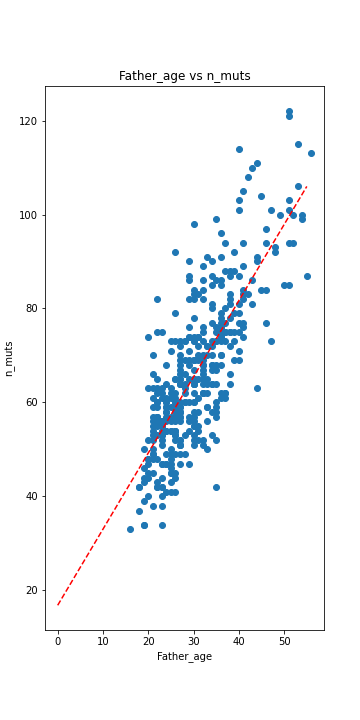
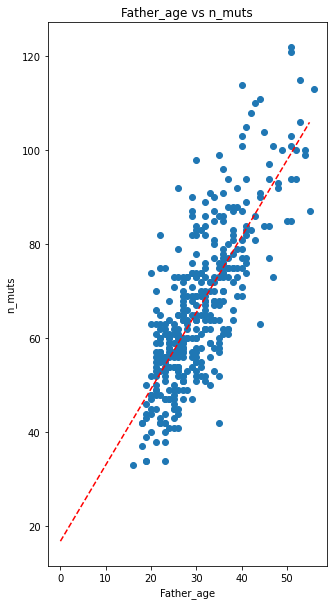
.

diff --git a/day5-lunch/day5_lunch.py b/day5-lunch/day5_lunch.py
@@ -121,7 +121,8 @@ class Stats:
         y_predict = [self.results.params[1]*x+self.results.params[0] for x in x_theory]
         ax.plot(x_theory, y_predict,'r--')
         print('OLS on fields: {}, {}'.format(f1,f2))
-        plt.show()
+        #plt.show()
+        plt.savefig('{}_{}_scatter.png'.format(f1,f2))
         print(self.results.summary())
     
     def OLS_predict(self,theoretical_x):
